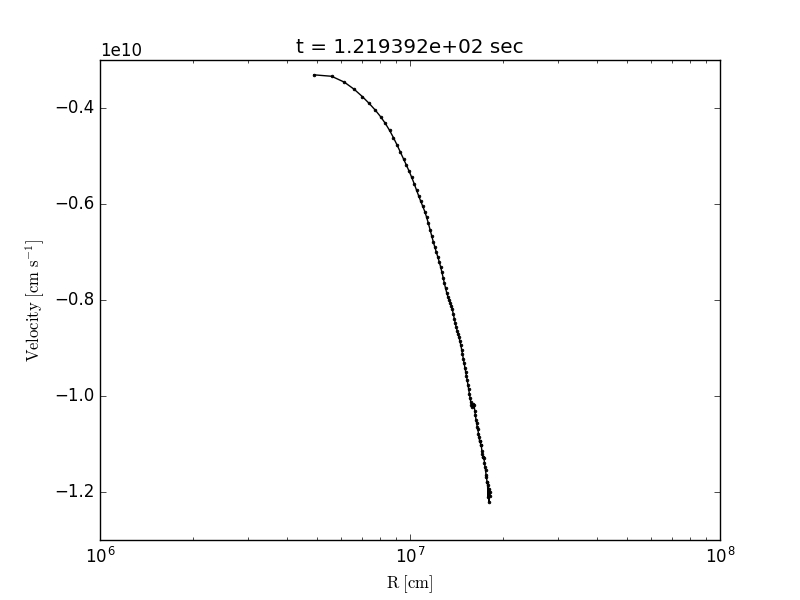
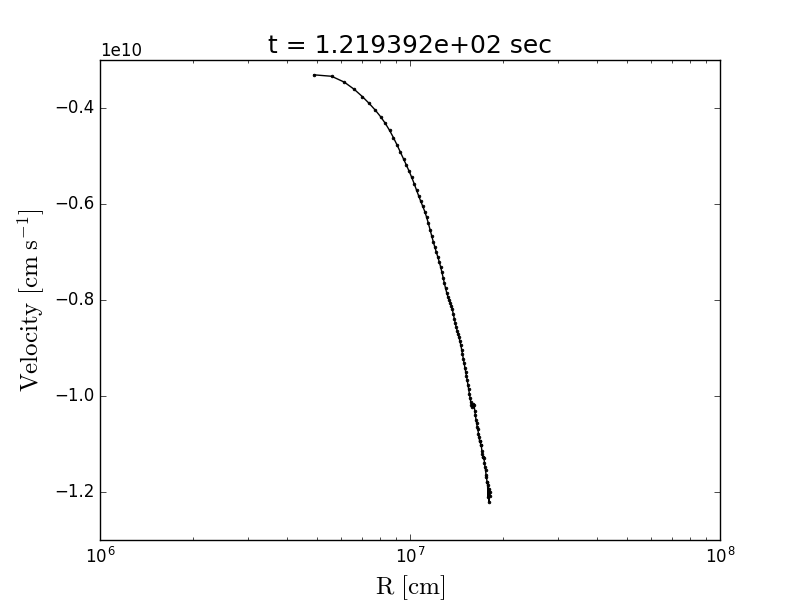
adjust velocity plots

Changed region(s): [[0.3125, 0.06, 0.6875, 0.09], [0.0312, 0.39, 0.0625, 0.66], [0.4688, 0.96, 0.5625, 0.99]]

diff --git a/plot.py b/plot.py
@@ -79,10 +79,10 @@ for i in range(0, n_iter, 100):
 
     ax.plot(data_R[i, 1:], data_U[i, 1:], 'o-', color='k', markersize=2)
 
-    ax.set_xlabel(r'$\mathrm{R\ [cm]}$')
-    ax.set_ylabel(r'$\mathrm{Velocity\ [cm\ s^{-1}]}$')
+    ax.set_xlabel(r'$\mathrm{R\ [cm]}$', fontsize=18)
+    ax.set_ylabel(r'$\mathrm{Velocity\ [cm\ s^{-1}]}$', fontsize=18)
 
-    ax.set_title('t = %.6e sec' % time[i])
+    ax.set_title('t = %.6e sec' % time[i], fontsize=18)
 
     # ax.set_xlim(1e5, 2.95e10)
     # ax.set_ylim(-1e11, 1e10)
